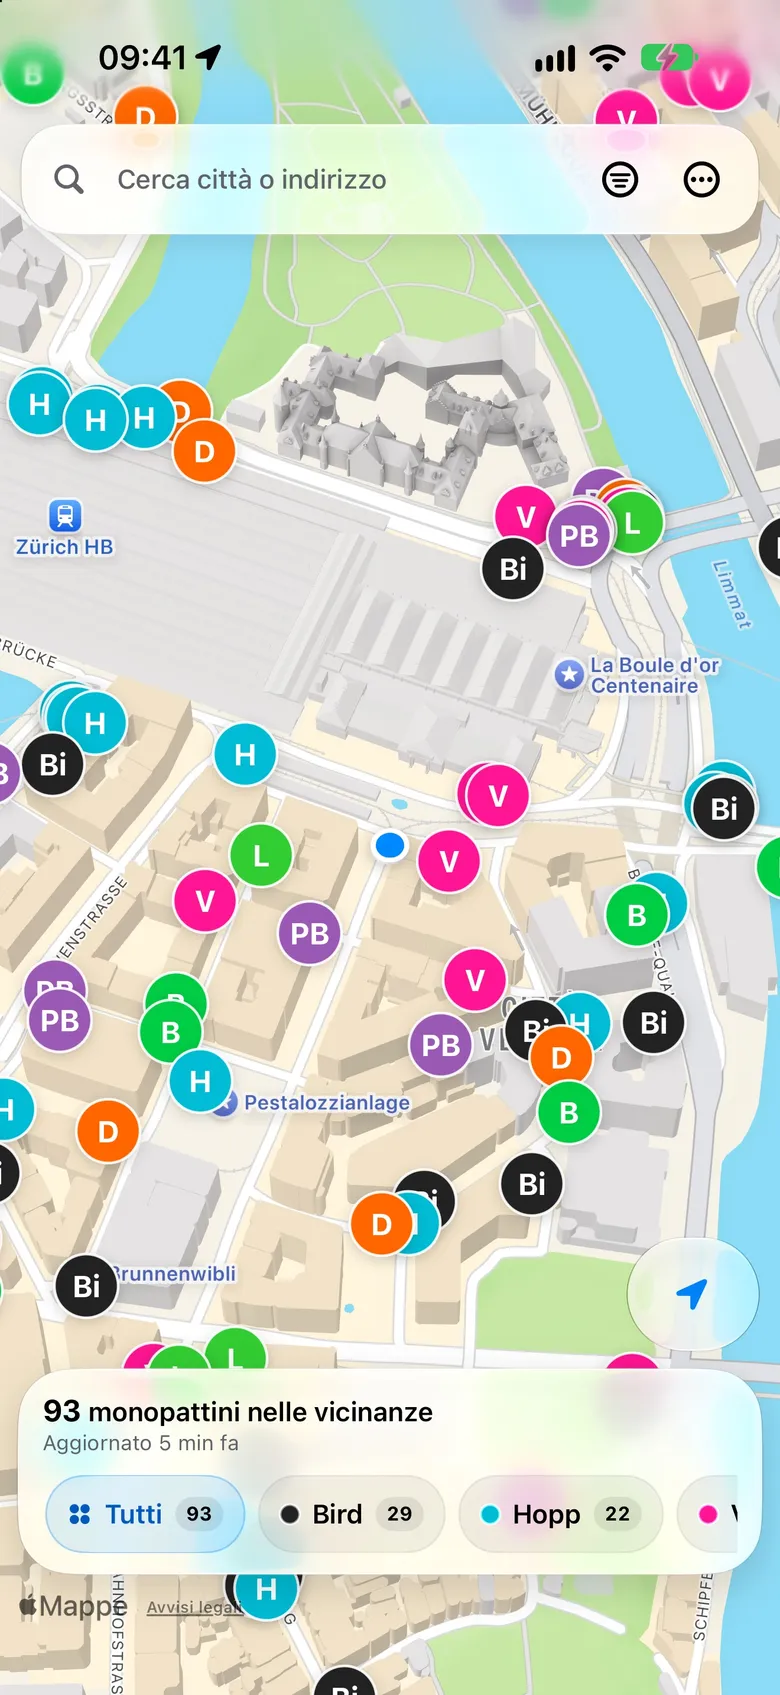
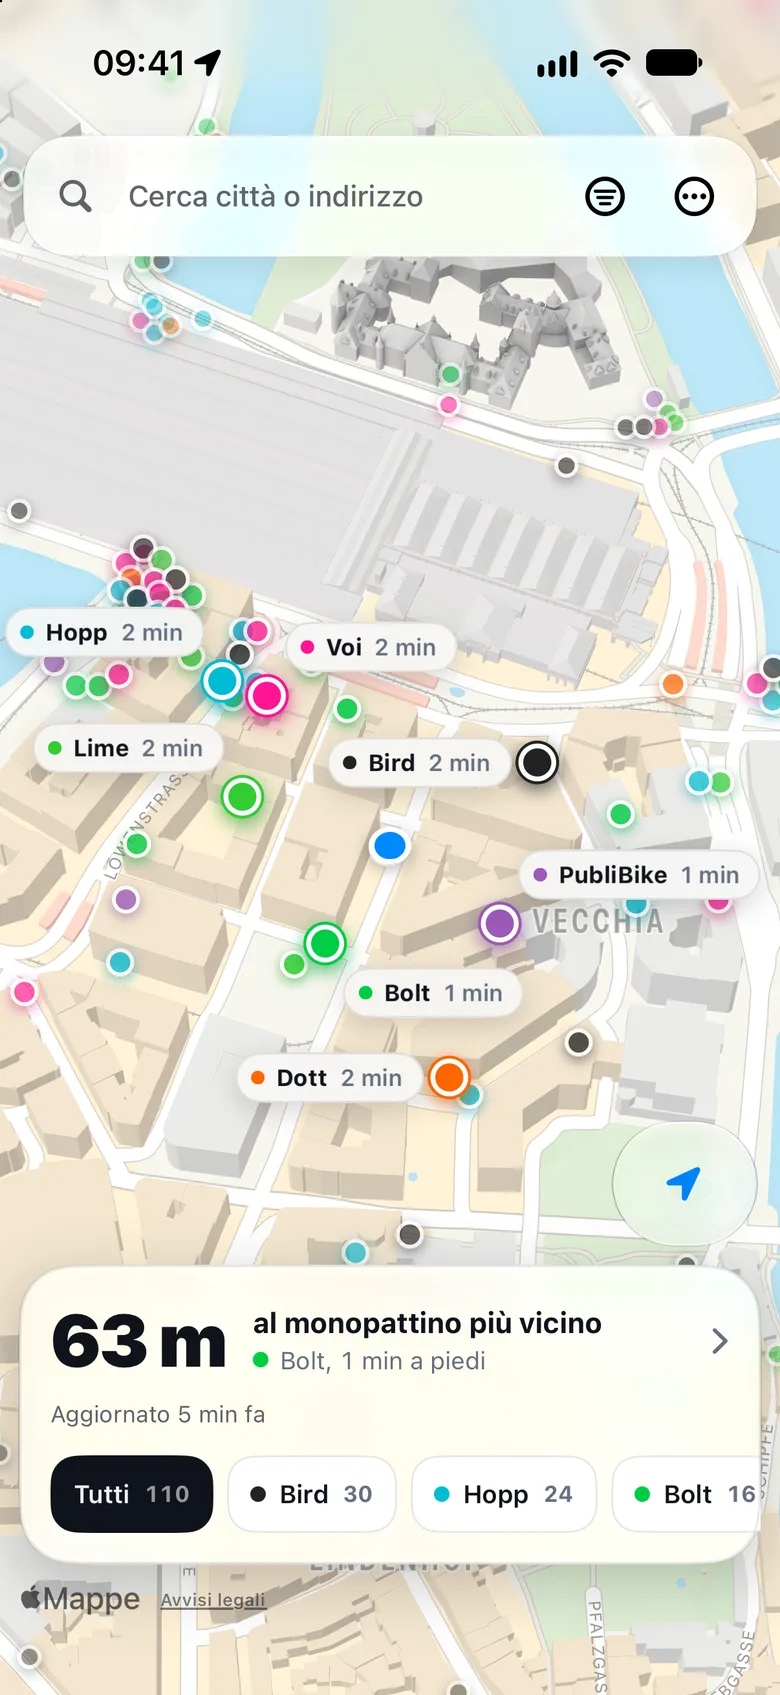
Take the landing page's pictures from the iPhone app as it looks now
The phones on the page still showed the app in its earlier look: lettered
pins and a dock that counted scooters. They were resized from captures kept
outside the repository, taken by hand, with different live numbers in each
language.

scripts/generate-landing-images.mjs now takes them itself, in a simulator: by
night and by day in front of Zürich main station, and by night over the
cities, before the phone is located. The pictures by the station are taken
right after the server renews its data, so the four languages show the same
scooters, and the script prints the nearest of each provider for the figures
the page quotes beside them. The snapshot is retaken with the pictures: one
count for every language, 110, and Bolt nearest at 63 m.

A capture of the screen has the status bar but not the island it goes
around: the phone on the page draws it.

diff --git a/src/lib/landingCopy.ts b/src/lib/landingCopy.ts
@@ -55,7 +55,7 @@ export interface LandingCopy {
   openMap: string;
   iphoneApp: string;
   hero: {
-    /** The number is the one on the capture of this language, beside the headline. */
+    /** The number is the one on the capture beside the headline: the scooters in view there. */
     title: (scooters: number) => string;
     lede: string;
     note: string;
@@ -133,7 +133,7 @@ export const LANDING_COPY: Record<LandingLocale, LandingCopy> = {
       note: 'Free. No account, no ads.',
       stage: 'Scootradar by Zürich main station',
       alt: scooters =>
-        `The iPhone app at night: a dark map of the streets by Zürich main station, covered in pins with each provider’s initials and colour, and ${scooters} scooters nearby.`,
+        `The iPhone app at night: the dark streets by Zürich main station, each scooter a dot of light in its provider’s colour, the nearest of each provider named with its walking time, and ${scooters} scooters in view.`,
       caption: date =>
         `Zürich main station, ${date}: the nearest ride from each of the seven providers there.`,
     },
@@ -151,7 +151,7 @@ export const LANDING_COPY: Record<LandingLocale, LandingCopy> = {
         close: (first, firstDistance, second, secondDistance) =>
           `Here, a ${first} is ${firstDistance} away and a ${second} is ${secondDistance}. It takes two apps to learn that, or one map.`,
         providers: 'Providers in Zürich',
-        alt: 'The same streets by day, with the pins of every provider on one map.',
+        alt: 'The same streets by day, with the dots of every provider on one map.',
       },
       walk: {
         title: 'Know the walk.',
@@ -189,7 +189,7 @@ export const LANDING_COPY: Record<LandingLocale, LandingCopy> = {
       lede: 'Shared e-scooters in Switzerland, Germany and France, plus Rome. Where no provider publishes its data, the map says so and points you to the closest cities that have it. Pick a city to open the map there.',
       countries: { CH: 'Switzerland', DE: 'Germany', FR: 'France', IT: 'Italy' },
       more: count => `and ${count} more`,
-      alt: 'The map zoomed out over Europe, with the number of scooters on each city.',
+      alt: 'The map at night, zoomed out over Europe, with the number of scooters on each city.',
     },
     faq: {
       title: 'Before you ask.',
@@ -255,7 +255,7 @@ export const LANDING_COPY: Record<LandingLocale, LandingCopy> = {
       note: 'Gratis. Kein Konto, keine Werbung.',
       stage: 'Scooter beim Zürcher Hauptbahnhof',
       alt: scooters =>
-        `Die iPhone-App bei Nacht: eine dunkle Karte der Strassen beim Zürcher Hauptbahnhof, voller Markierungen mit den Initialen und der Farbe jedes Anbieters, ${scooters} Scooter in der Nähe.`,
+        `Die iPhone-App bei Nacht: die dunklen Strassen beim Zürcher Hauptbahnhof, jeder Scooter ein Lichtpunkt in der Farbe seines Anbieters, der nächste jedes Anbieters mit Namen und Gehzeit, ${scooters} Scooter im Bild.`,
       caption: date =>
         `Zürich Hauptbahnhof, ${date}: das jeweils nächste Fahrzeug der sieben Anbieter dort.`,
     },
@@ -273,7 +273,7 @@ export const LANDING_COPY: Record<LandingLocale, LandingCopy> = {
         close: (first, firstDistance, second, secondDistance) =>
           `Hier steht ein ${first} in ${firstDistance} Entfernung und ein ${second} in ${secondDistance}. Dafür brauchst du zwei Apps. Oder eine Karte.`,
         providers: 'Anbieter in Zürich',
-        alt: 'Dieselben Strassen bei Tag, mit den Markierungen aller Anbieter auf einer Karte.',
+        alt: 'Dieselben Strassen bei Tag, mit den Punkten aller Anbieter auf einer Karte.',
       },
       walk: {
         title: 'Wissen, wie weit es ist.',
@@ -311,7 +311,7 @@ export const LANDING_COPY: Record<LandingLocale, LandingCopy> = {
       lede: 'E-Scooter in der Schweiz, in Deutschland und Frankreich sowie in Rom. Wo kein Anbieter Daten veröffentlicht, sagt die Karte das und nennt die nächsten Städte mit Daten. Wähle eine Stadt, um die Karte dort zu öffnen.',
       countries: { CH: 'Schweiz', DE: 'Deutschland', FR: 'Frankreich', IT: 'Italien' },
       more: count => `und ${count} weitere`,
-      alt: 'Die Karte, herausgezoomt über Europa, mit der Zahl der Scooter in jeder Stadt.',
+      alt: 'Die Karte bei Nacht, herausgezoomt über Europa, mit der Zahl der Scooter in jeder Stadt.',
     },
     faq: {
       title: 'Bevor du fragst.',
@@ -377,7 +377,7 @@ export const LANDING_COPY: Record<LandingLocale, LandingCopy> = {
       note: 'Gratuit. Sans compte, sans pub.',
       stage: 'Trottinettes près de la gare centrale de Zurich',
       alt: scooters =>
-        `L’app iPhone, de nuit : une carte sombre des rues près de la gare centrale de Zurich, couverte de repères aux initiales et à la couleur de chaque opérateur, et ${scooters} trottinettes à proximité.`,
+        `L’app iPhone, de nuit : les rues sombres près de la gare centrale de Zurich, chaque trottinette en point lumineux à la couleur de son opérateur, la plus proche de chaque opérateur avec son nom et le temps de marche, et ${scooters} trottinettes à l’écran.`,
       caption: date =>
         `Gare centrale de Zurich, ${date} : le véhicule le plus proche chez chacun des sept opérateurs présents.`,
     },
@@ -395,7 +395,7 @@ export const LANDING_COPY: Record<LandingLocale, LandingCopy> = {
         close: (first, firstDistance, second, secondDistance) =>
           `Ici, une ${first} est à ${firstDistance} et une ${second} à ${secondDistance}. Pour le savoir, il faut deux apps, ou une seule carte.`,
         providers: 'Opérateurs à Zurich',
-        alt: 'Les mêmes rues de jour, avec les repères de tous les opérateurs sur une seule carte.',
+        alt: 'Les mêmes rues de jour, avec les points de tous les opérateurs sur une seule carte.',
       },
       walk: {
         title: 'Sachez jusqu’où marcher.',
@@ -433,7 +433,7 @@ export const LANDING_COPY: Record<LandingLocale, LandingCopy> = {
       lede: 'Des trottinettes en libre-service en Suisse, en Allemagne et en France, ainsi qu’à Rome. Là où aucun opérateur ne publie de données, la carte le dit et indique les villes les plus proches qui en ont. Choisissez une ville pour y ouvrir la carte.',
       countries: { CH: 'Suisse', DE: 'Allemagne', FR: 'France', IT: 'Italie' },
       more: count => (count === 1 ? 'et une autre' : `et ${count} autres`),
-      alt: 'La carte à l’échelle de l’Europe, avec le nombre de trottinettes dans chaque ville.',
+      alt: 'La carte de nuit à l’échelle de l’Europe, avec le nombre de trottinettes dans chaque ville.',
     },
     faq: {
       title: 'Vos questions.',
@@ -499,7 +499,7 @@ export const LANDING_COPY: Record<LandingLocale, LandingCopy> = {
       note: 'Gratis. Niente account, niente pubblicità.',
       stage: 'Monopattini vicino alla stazione centrale di Zurigo',
       alt: scooters =>
-        `L’app per iPhone di notte: una mappa scura delle strade vicino alla stazione centrale di Zurigo, coperta di segnaposto con le iniziali e il colore di ogni operatore, e ${scooters} monopattini nelle vicinanze.`,
+        `L’app per iPhone di notte: le strade scure vicino alla stazione centrale di Zurigo, ogni monopattino un punto di luce nel colore del suo operatore, il più vicino di ogni operatore con il nome e i minuti a piedi, e ${scooters} monopattini sullo schermo.`,
       caption: date =>
         `Stazione centrale di Zurigo, ${date}: per ciascuno dei sette operatori presenti, il mezzo più vicino.`,
     },
@@ -517,7 +517,7 @@ export const LANDING_COPY: Record<LandingLocale, LandingCopy> = {
         close: (first, firstDistance, second, secondDistance) =>
           `Qui un ${first} è a ${firstDistance} e un ${second} a ${secondDistance}. Per saperlo servono due app, oppure una sola mappa.`,
         providers: 'Operatori a Zurigo',
-        alt: 'Le stesse strade di giorno, con i segnaposto di tutti gli operatori su una sola mappa.',
+        alt: 'Le stesse strade di giorno, con i punti di tutti gli operatori su una sola mappa.',
       },
       walk: {
         title: 'Sai quanto c’è da camminare.',
@@ -555,7 +555,7 @@ export const LANDING_COPY: Record<LandingLocale, LandingCopy> = {
       lede: 'Monopattini in sharing in Svizzera, Germania e Francia, più Roma. Dove nessun operatore pubblica dati, la mappa lo dice e indica le città più vicine che ne hanno. Scegli una città per aprire lì la mappa.',
       countries: { CH: 'Svizzera', DE: 'Germania', FR: 'Francia', IT: 'Italia' },
       more: count => (count === 1 ? 'e un’altra' : `e altre ${count}`),
-      alt: 'La mappa dell’Europa vista da lontano, con il numero di monopattini in ogni città.',
+      alt: 'La mappa dell’Europa vista da lontano, di notte, con il numero di monopattini in ogni città.',
     },
     faq: {
       title: 'Prima che tu lo chieda.',

diff --git a/src/lib/landingSnapshot.ts b/src/lib/landingSnapshot.ts
@@ -3,7 +3,9 @@ import type { RidePricing } from '@/lib/types';
 
 // What /api/scooters listed by Zürich main station (47.3763, 8.5395) on the day
 // below: the nearest vehicle of each provider there. The landing page quotes
-// these figures and dates them; nothing on it is live.
+// these figures and dates them; nothing on it is live. They are the scooters in
+// its pictures: scripts/generate-landing-images.mjs takes both at once and
+// prints these, so the two change together.
 
 export type LandingNearestFact = 'walk' | 'battery' | 'range' | 'price' | 'bike';
 
@@ -30,15 +32,15 @@ const CHF = (unlock: number, minute: number): RidePricing => ({
 
 /** Nearest first. The first one is the scooter the page then follows. */
 export const LANDING_NEAREST: readonly LandingNearest[] = [
-  { provider: 'voi', name: 'Voi', distanceM: 60, battery: null, rangeM: 49_600, pricing: CHF(100, 42), shows: ['walk', 'range'] },
-  { provider: 'lime', name: 'Lime', distanceM: 62, battery: null, rangeM: 39_268, pricing: null, shows: ['range'] },
+  { provider: 'bolt', name: 'Bolt', distanceM: 63, battery: 20, rangeM: 8_400, pricing: CHF(100, 42), shows: ['walk', 'range'] },
   { provider: 'publibike', name: 'PubliBike', distanceM: 70, battery: null, rangeM: null, pricing: null, shows: ['bike'] },
-  { provider: 'bolt', name: 'Bolt', distanceM: 70, battery: 80, rangeM: 50_400, pricing: CHF(100, 42), shows: ['battery', 'price'] },
-  { provider: 'bird', name: 'Bird', distanceM: 108, battery: 56, rangeM: 18_914, pricing: null, shows: ['battery', 'range'] },
-  { provider: 'hopp', name: 'Hopp', distanceM: 126, battery: 72, rangeM: 26_400, pricing: CHF(100, 40), shows: ['battery', 'price'] },
-  { provider: 'dott', name: 'Dott', distanceM: 137, battery: 94, rangeM: 59_096, pricing: null, shows: ['battery', 'range'] },
+  { provider: 'lime', name: 'Lime', distanceM: 81, battery: null, rangeM: 23_303, pricing: null, shows: ['range'] },
+  { provider: 'bird', name: 'Bird', distanceM: 91, battery: 56, rangeM: 18_914, pricing: null, shows: ['battery', 'range'] },
+  { provider: 'voi', name: 'Voi', distanceM: 114, battery: null, rangeM: 43_200, pricing: CHF(100, 42), shows: ['price'] },
+  { provider: 'hopp', name: 'Hopp', distanceM: 126, battery: 71, rangeM: 26_000, pricing: CHF(100, 40), shows: ['battery', 'price'] },
+  { provider: 'dott', name: 'Dott', distanceM: 131, battery: 94, rangeM: 59_096, pricing: null, shows: ['battery', 'range'] },
 ];
 
-// The number in the panel of each language's capture of the dark map
-// (public/landing/*-dark.webp): the headline repeats the one beside it.
-export const LANDING_SCOOTERS_NEARBY = { en: 96, de: 94, fr: 93, it: 93 } as const;
+// The scooters in view on the dark map (public/landing/*-dark.webp), which its
+// "All" chip counts in every language: the headline repeats the number beside it.
+export const LANDING_SCOOTERS_NEARBY = 110;

diff --git a/src/app/(site)/[[...locale]]/page.tsx b/src/app/(site)/[[...locale]]/page.tsx
@@ -198,7 +198,10 @@ function Tile({ provider }: { provider: string }) {
   );
 }
 
-/** A capture of the iPhone app in its phone. public/landing holds them, sized ahead. */
+/**
+ * A capture of the iPhone app in its phone. public/landing holds them, sized
+ * ahead: scripts/generate-landing-images.mjs takes them.
+ */
 function Phone({ src, alt, className, first = false }: {
   src: string;
   alt: string;
@@ -258,7 +261,7 @@ export default async function LandingPage({ params }: Props) {
   const copy = LANDING_COPY[locale];
   const format = formatters(locale);
   const picture = (scene: string) => `/landing/${locale}-${scene}.webp`;
-  const nearby = LANDING_SCOOTERS_NEARBY[locale];
+  const nearby = LANDING_SCOOTERS_NEARBY;
   // The scooter the page follows from the hero down, and the runner-up it is compared with.
   const [nearest, second] = LANDING_NEAREST;
   const glow = { '--c': tileColor(nearest.provider) } as CSSProperties;

diff --git a/src/lib/landingSnapshot.test.ts b/src/lib/landingSnapshot.test.ts
@@ -1,6 +1,5 @@
 import { describe, expect, it } from 'vitest';
 import { PROVIDERS } from '@/generated/providers';
-import { LANDING_LOCALES } from '@/lib/landingCopy';
 import { LANDING_NEAREST, LANDING_SCOOTERS_NEARBY, LANDING_SNAPSHOT_DATE } from '@/lib/landingSnapshot';
 
 describe('the snapshot behind the landing page', () => {
@@ -28,8 +27,8 @@ describe('the snapshot behind the landing page', () => {
     }
   });
 
-  it('has a count for the capture of every language, and a day', () => {
-    for (const locale of LANDING_LOCALES) expect(LANDING_SCOOTERS_NEARBY[locale]).toBeGreaterThan(0);
+  it('has the count of its captures, and a day', () => {
+    expect(LANDING_SCOOTERS_NEARBY).toBeGreaterThan(0);
     expect(LANDING_SNAPSHOT_DATE).toMatch(/^\d{4}-\d{2}-\d{2}$/);
     expect(Number.isNaN(Date.parse(LANDING_SNAPSHOT_DATE))).toBe(false);
   });

diff --git a/e2e/landing.e2e.ts b/e2e/landing.e2e.ts
@@ -42,8 +42,8 @@ for (const [locale, headline] of Object.entries(HEADLINES)) {
     // Seven providers beside the phone, the nearest first.
     const cards = page.locator('.near-card');
     await expect(cards).toHaveCount(7);
-    await expect(cards.first()).toContainText('Voi');
-    await expect(cards.first()).toContainText('60 m');
+    await expect(cards.first()).toContainText('Bolt');
+    await expect(cards.first()).toContainText('63 m');
 
     // The pictures further down load as they come into view.
     const pictures = page.locator('main img');

diff --git a/src/app/(site)/landing.css b/src/app/(site)/landing.css
@@ -434,6 +434,19 @@ img {
   background: #12151c;
 }
 
+/* The island of the phone, which a capture of the screen leaves out of its status bar. */
+.phone-body::before {
+  content: '';
+  position: absolute;
+  left: 50%;
+  top: 6.4cqw;
+  width: 29cqw;
+  height: 8.6cqw;
+  margin-left: -14.5cqw;
+  border-radius: 4.3cqw;
+  background: #000000;
+}
+
 .stage-phone {
   --halo: rgba(47, 123, 255, 0.34);
   width: min(300px, 86%);
